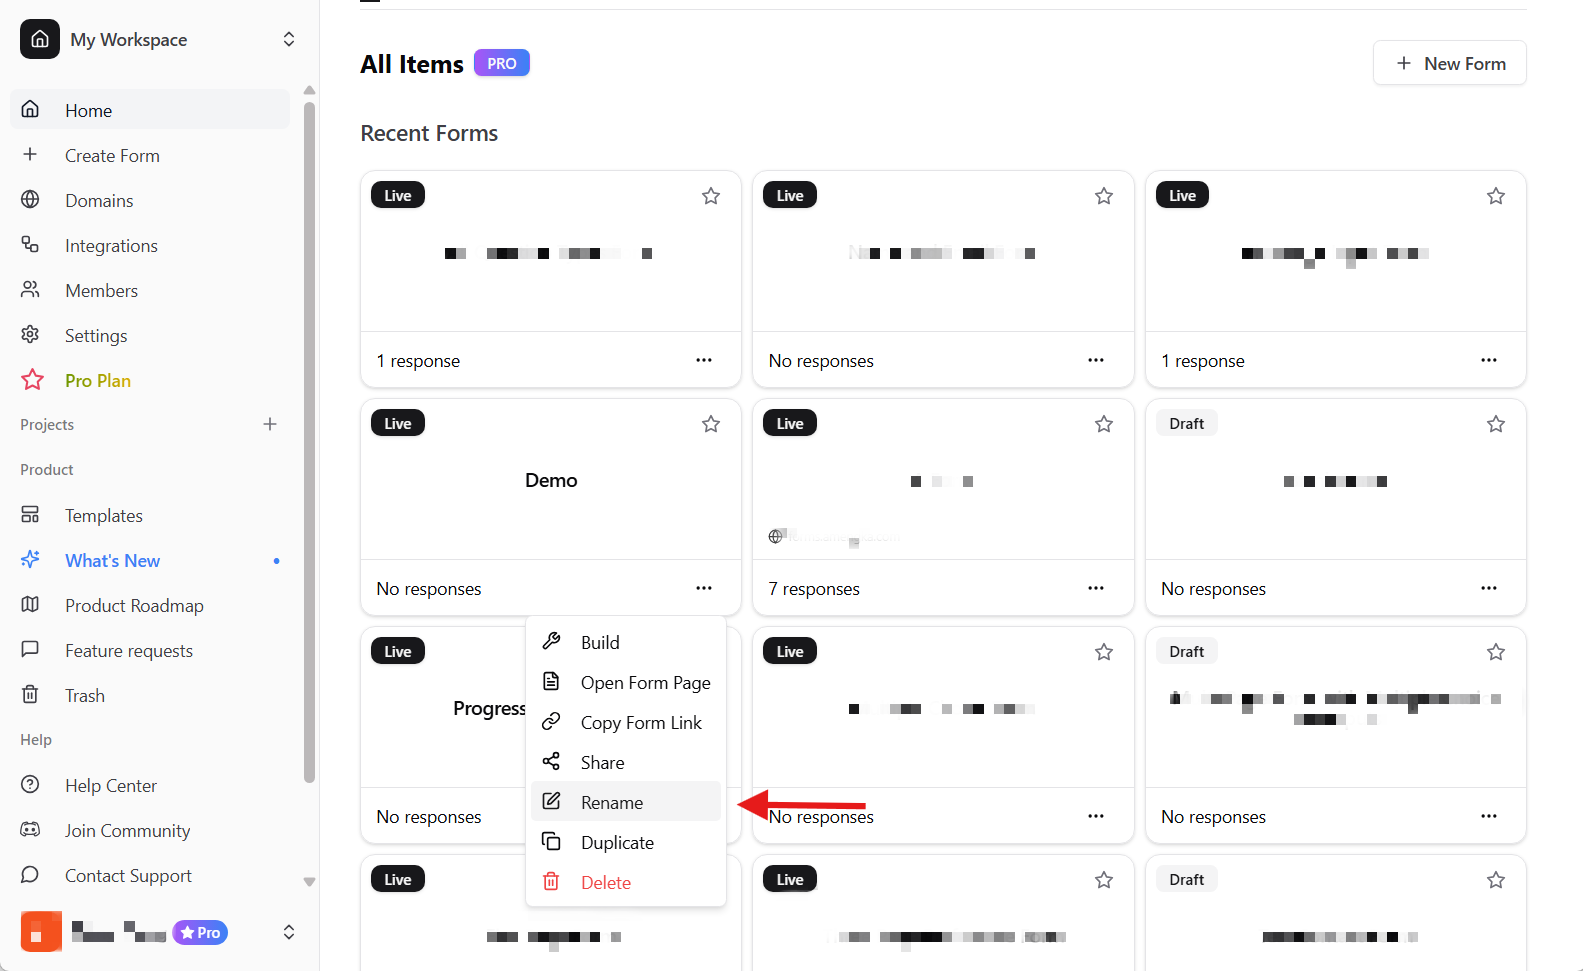
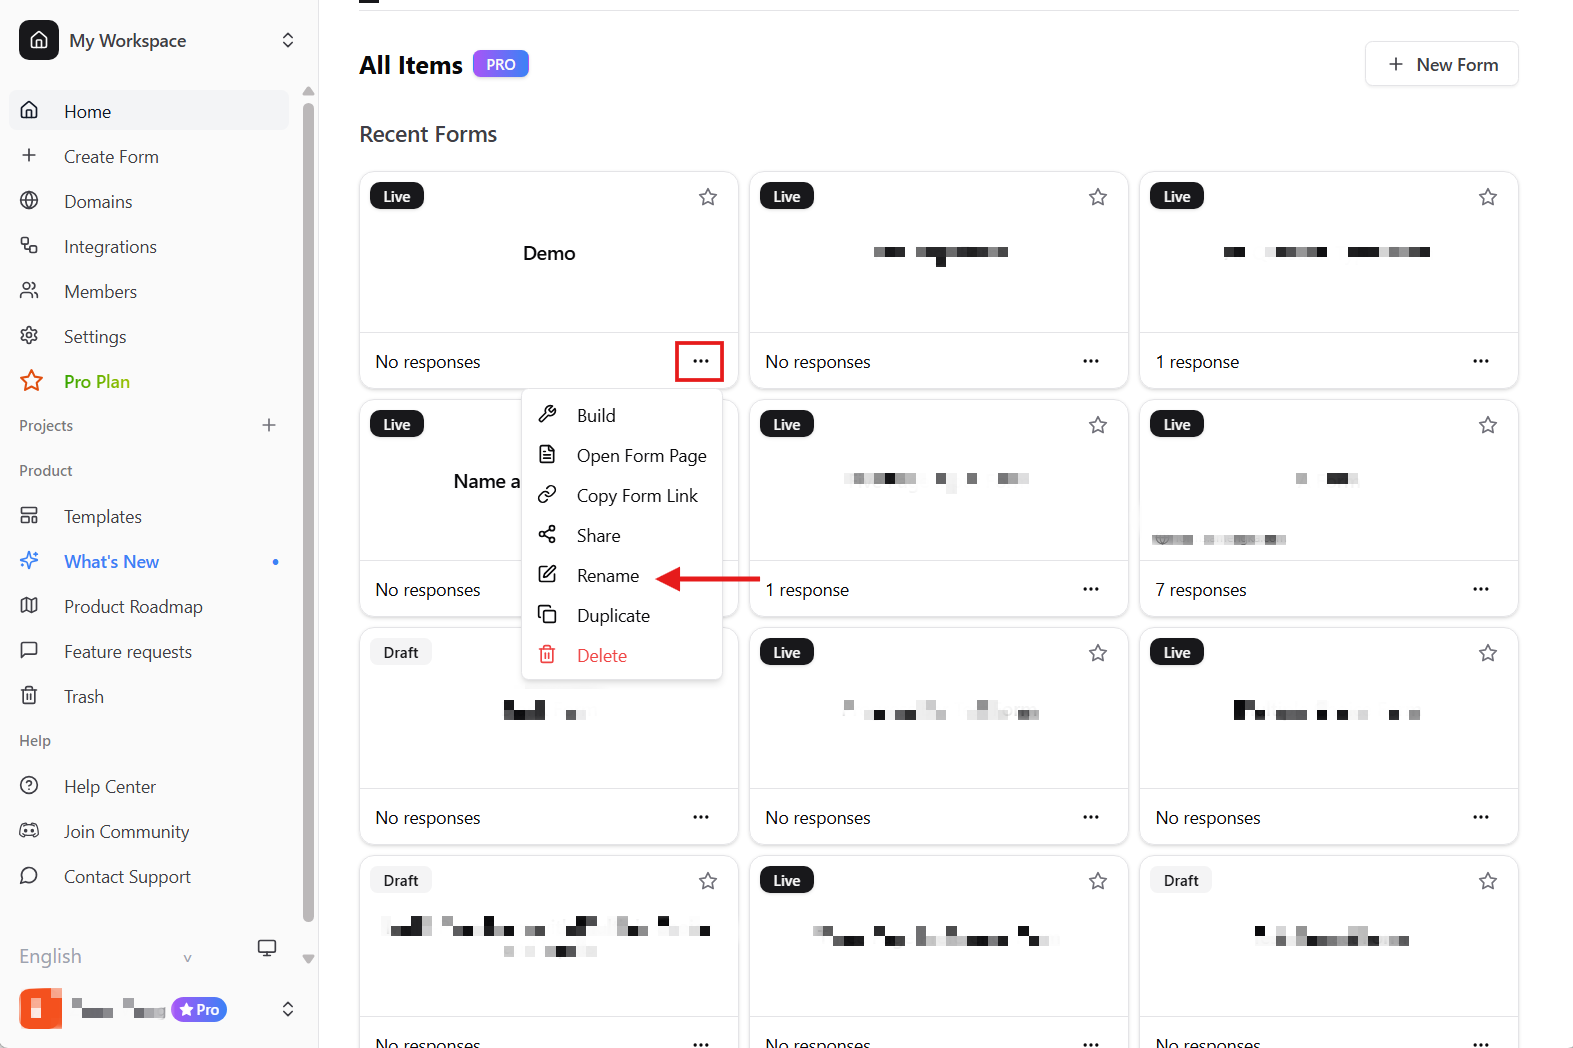
Apply UI element styling and improve documentation structure
## Changes

### UI Element Styling
- Standardized all UI elements (buttons, tabs, fields) with cyan styling
- Applied consistent styling across guides and features pages
- Improved readability with highlighted clickable elements

### Guide Pages
- **create-form.mdx**: Added cyan styling to "Try for Free" and "New Form" buttons
- **form-templates.mdx**: Styled "Templates" button
- **publish.mdx**: Styled "Publish" button
- **name-question-fields.mdx**: Fixed broken link, updated styling
- **conditional-logic.mdx**: Applied styling to all UI elements and settings

### Navigation Improvements
- **guides.mdx**: Fixed all paths from ./get-start/ to ./guides/
- **index.mdx**: Updated "Get started now" link to ./guides
- Added missing guide pages to navigation sections

### Documentation
- Added DESIGN_GUIDELINES.md to track:
  - Styling conventions and patterns
  - Completed and pending pages
  - Design decisions and rationale
  - Future tasks and maintenance notes

### Assets
- Updated rename-form-dashboard.png screenshot
- Updated rename-form-modal.png screenshot

### Bug Fixes
- Fixed broken link in name-question-fields.mdx (../get-start → ./how-to-rename-forms)
- Corrected all guide page paths throughout the documentation

🤖 Generated with [Claude Code](https://claude.com/claude-code)

diff --git a/DESIGN_GUIDELINES.md b/DESIGN_GUIDELINES.md
@@ -1,0 +1,230 @@
+# MakeForm Documentation Design Guidelines
+
+## Overview
+This document outlines the design principles, styling conventions, and progress tracking for the MakeForm help center documentation.
+
+---
+
+## UI Element Styling Convention
+
+### Standard Style
+All UI elements (buttons, tabs, field names, menu items, etc.) that users can click or interact with should use **cyan styling**:
+
+```jsx
+<span className="text-cyan-500 font-bold bg-cyan-100 px-2 py-1 rounded">Element Name</span>
+```
+
+### What to Style
+Apply cyan styling to:
+- ✅ **Buttons** - Any clickable button (e.g., "Publish", "New Form", "Rename")
+- ✅ **Tabs** - Navigation tabs (e.g., "Share", "Summary", "Submissions")
+- ✅ **Menu Items** - Dropdown options and menu selections
+- ✅ **Field Labels** - Form field names and labels (e.g., "Label", "Field", "Operator")
+- ✅ **Icons/Triggers** - Clickable icons (e.g., "⋯" three-dot menu)
+- ✅ **Settings Options** - Configuration options and setting names
+- ✅ **UI Sections** - Named sections in the interface (e.g., "Link Settings")
+
+### Visual Example
+```markdown
+Click the <span className="text-cyan-500 font-bold bg-cyan-100 px-2 py-1 rounded">Publish</span> button to make your form live.
+```
+
+---
+
+## Content Structure Guidelines
+
+### Page Organization
+Following Tally's progressive complexity model:
+1. **Begin Your Journey** - Foundation and getting started
+2. **Customize to Your Own** - Customization and configuration
+3. **Advanced Features** - Complex functionality
+4. **Deployment** - Publishing and sharing
+
+### Current "Begin Your Journey" Order
+1. 📄 Create a form
+2. 🗂 Form templates
+3. 🏷 Name question fields
+4. 📑 Create a multi-page form
+5. 🚀 Publish your form
+
+---
+
+## Completed Pages
+
+### Guides (✅ Styling Applied)
+- ✅ **guides/create-form.mdx**
+  - Styled: "Try for Free", "New Form"
+  - Enhanced: Added "In the chat interface" and "to the AI chatbot" for clarity
+
+- ✅ **guides/form-templates.mdx**
+  - Styled: "Templates"
+
+- ✅ **guides/publish.mdx**
+  - Styled: "Publish"
+
+- ✅ **guides/how-to-rename-forms.mdx**
+  - Styled: "⋯" (three-dot menu), "Rename" (multiple instances)
+
+- ✅ **guides/name-question-fields.mdx**
+  - Styled: "Summary", "Submissions", "Label", "Figure 2"
+  - Note: Has broken link to `../get-start` on line 56 (should be `./how-to-rename-forms`)
+
+- ✅ **guides/customize-form.mdx**
+  - Styled: "Customize"
+
+- ✅ **guides/create-a-multi-page-form.mdx**
+  - Styled: "+" button
+
+### Features (✅ Styling Applied)
+- ✅ **features/share-settings.mdx** (merged from link-preview.mdx + share-setting.mdx)
+  - Styled: "Share" tab, "Link Settings", "Customize text", "Customize image", "Customize favicon"
+  - Added: QR code download section from old share-setting.mdx
+  - Note: Renamed from "Link Preview" to "Share Settings" for clarity
+
+- ✅ **features/conditional-logic.mdx**
+  - Styled: "Add conditional logic to this page", "Field", "Operator", "Value", "Go to", "Default Action", "Logic Flow"
+
+### Main Pages (✅ Fixed Links)
+- ✅ **pages/index.mdx** (Help Center main page)
+  - Fixed: Changed `./get-start` to `./guides`
+
+- ✅ **pages/guides.mdx** (Getting Started overview)
+  - Fixed all paths from `./get-start/` to `./guides/`
+  - Added missing guide pages to both sections
+
+---
+
+## Pending Pages
+
+### Guides (⏳ Needs Styling Review)
+- ⏳ **guides/form-settings.mdx**
+  - Needs review for setting names and UI elements to style
+  - Many potential elements: "Settings" tab, various setting options
+
+- ⏳ **guides/supported-languages.mdx**
+  - Needs review for UI elements (language dropdown, etc.)
+
+### Features (⏳ Needs Styling Review)
+- ⏳ **features/headings.mdx**
+- ⏳ **features/long-text-input.mdx**
+- ⏳ **features/multi-select.mdx**
+- ⏳ **features/multiple-choice.mdx**
+- ⏳ **features/opinion-scale.mdx**
+- ⏳ **features/rating.mdx**
+- ⏳ **features/short-text-input.mdx**
+- ⏳ **features/summary-detail.mdx**
+- ⏳ **features/text.mdx**
+- ⏳ **features/address-input.mdx**
+- ⏳ **features/currency-input.mdx**
+- ⏳ **features/date-picker.mdx**
+- ⏳ **features/email-input.mdx**
+- ⏳ **features/link-input.mdx**
+- ⏳ **features/number-input.mdx**
+- ⏳ **features/phone-input.mdx**
+- ⏳ **features/range-slider.mdx**
+- ⏳ **features/ranking-input.mdx**
+- ⏳ **features/single-select.mdx**
+- ⏳ **features/time-input.mdx**
+- ⏳ **features/checkboxes.mdx**
+- ⏳ **features/custom-domain.mdx**
+- ⏳ **features/email-notifications.mdx**
+- ⏳ **features/file-upload.mdx**
+- ⏳ **features/geo-capture.mdx**
+- ⏳ **features/hidden-fields.mdx**
+- ⏳ **features/remove-makeform-branding.mdx**
+- ⏳ **features/signature.mdx**
+
+---
+
+## Known Issues to Fix
+
+### Broken Links
+~~1. **guides/name-question-fields.mdx:56**~~ ✅ **FIXED**
+   - ~~Current: `<Link href="../get-start">`~~
+   - ~~Should be: `<Link href="./how-to-rename-forms">`~~
+   - Fixed on 2024-12-15
+
+### Content Improvements
+- Consider adding more guide pages under "Customize to Your Own" section
+- Review feature pages for consistency with established patterns
+
+---
+
+## Design Decisions Log
+
+### 2024 - Content Consolidation (Share Settings)
+- **Decision**: Merged `link-preview.mdx` and `share-setting.mdx` into `share-settings.mdx`
+- **Rationale**: 80% content overlap, one comprehensive page is better than two redundant ones
+- **Impact**:
+  - Eliminated duplicate content
+  - Added QR code section to comprehensive share settings page
+  - Updated all references to point to new unified page
+  - Improved user experience with single authoritative source
+
+### 2024 - Styling Standardization
+- **Decision**: Use only cyan styling for all UI elements (removed gray styling distinction)
+- **Rationale**: Simplifies design system and improves consistency
+- **Impact**: All clickable/interactive elements now have uniform appearance
+
+### 2024 - Path Structure Fix
+- **Decision**: Changed all guide links from `./get-start/` to `./guides/`
+- **Rationale**: The `get-start` directory doesn't exist; guides are in `./guides/`
+- **Impact**: All navigation links now work correctly
+
+### 2024 - Content Organization
+- **Decision**: Follow Tally's progressive complexity model
+- **Rationale**: Industry best practice for onboarding documentation
+- **Impact**: Guides are organized from basic to advanced
+
+---
+
+## Future Tasks
+
+### High Priority
+- [ ] Review and apply styling to `guides/form-settings.mdx`
+- [ ] Review and apply styling to `guides/supported-languages.mdx`
+- [x] Fix broken link in `guides/name-question-fields.mdx` ✅ **COMPLETED**
+- [ ] Audit all feature pages for UI elements needing styling
+
+### Medium Priority
+- [ ] Review all feature documentation pages for consistency
+- [ ] Consider adding "Share Your Form" section (like Tally)
+- [ ] Add more advanced customization guides
+
+### Low Priority
+- [ ] Create style guide component library for common patterns
+- [ ] Document image requirements and best practices
+- [ ] Review SEO and meta descriptions across all pages
+
+---
+
+## Reference: Tally's Help Center Structure
+Used as inspiration for organization:
+1. Start Here - Foundational topics
+2. Make it Your Own - Customization
+3. Share Your Form - Distribution
+4. Settings - Configuration
+5. Block Settings - Advanced features
+6. Additional Resources - External links
+
+---
+
+## Maintenance Notes
+
+### When Adding New Documentation
+1. Apply cyan styling to all UI elements
+2. Follow progressive complexity model
+3. Use clear, concise language
+4. Include screenshots where helpful
+5. Test all links before publishing
+
+### When Updating Existing Pages
+1. Maintain consistent styling
+2. Update this document with changes
+3. Check for broken links
+4. Ensure screenshots are current
+
+---
+
+**Last Updated**: 2024-12-15
+**Maintained By**: Development Team
